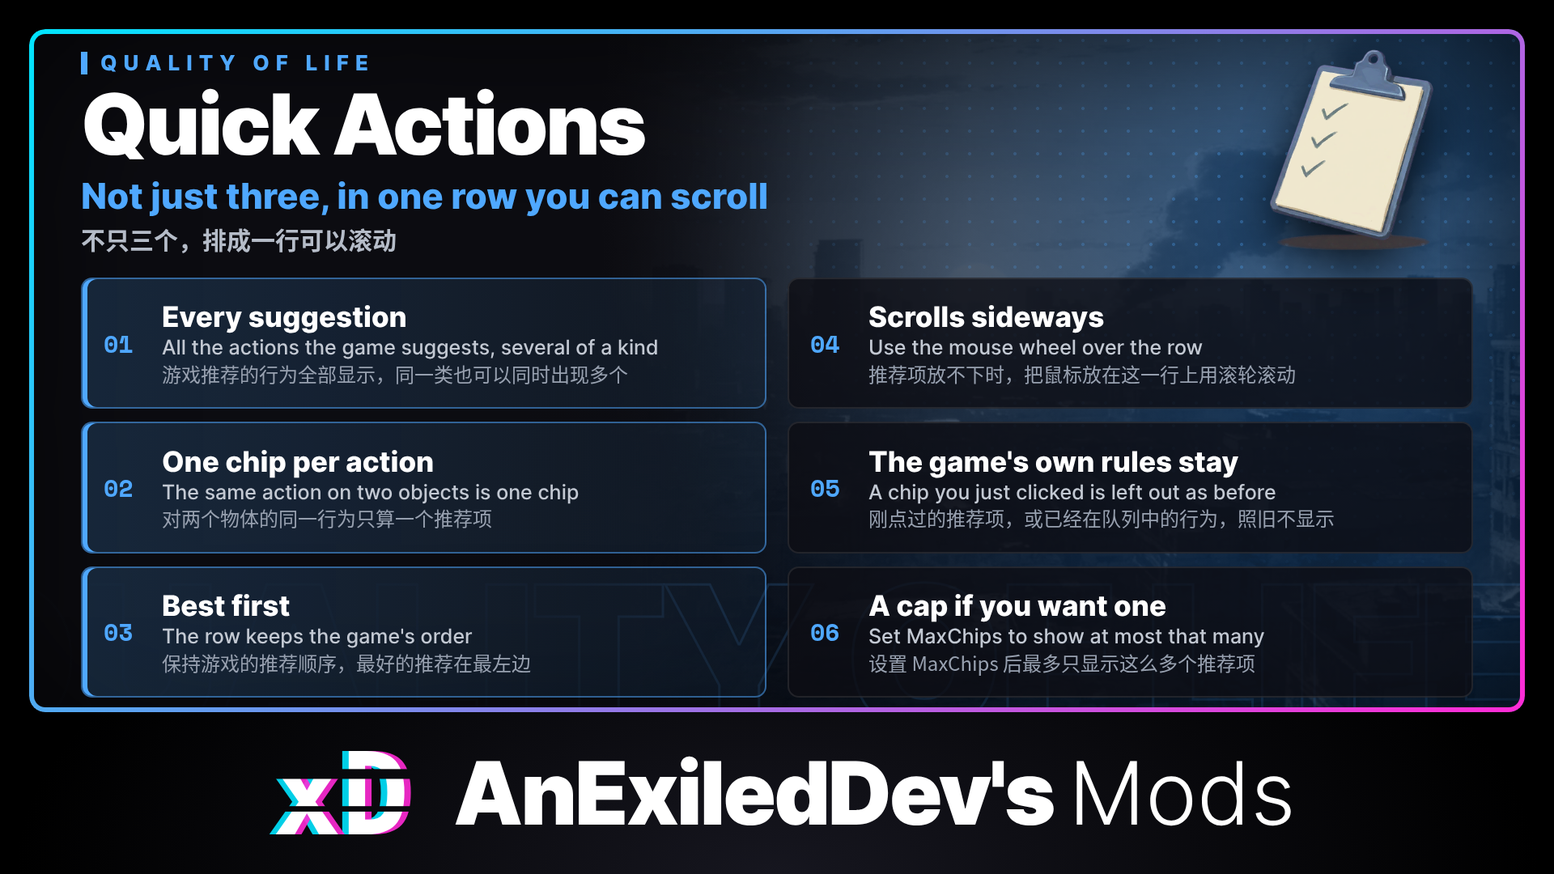
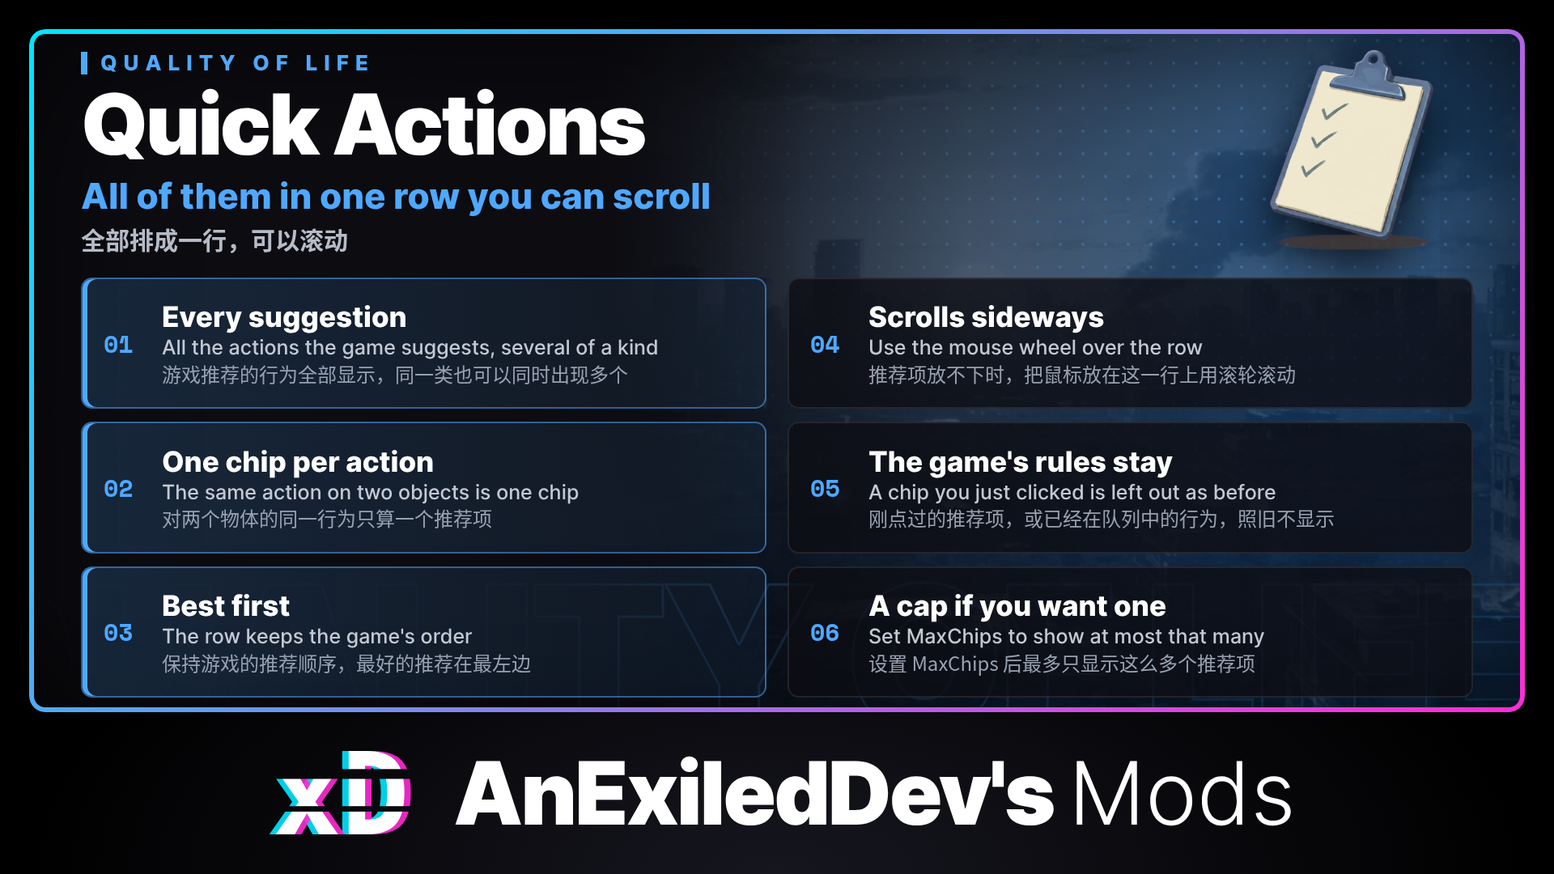
Quick Actions 0.3.4: clearer wording
Plainer setting descriptions and Mods screen description, in English and Chinese.
README and Nexus page: simpler feature headings, the known issues about clicks near the row's edge are split and reworded, and the starving or exhausted rule is on the Nexus page too.
Changelog entries reworded without changing what they say.
Updated features image.

Changed region(s): [[0.0312, 0.2139, 0.5, 0.3056], [0.6562, 0.5194, 0.8125, 0.55]]

diff --git a/src/QuickActions/Plugin.cs b/src/QuickActions/Plugin.cs
@@ -14,7 +14,7 @@ namespace QuickActions;
 public sealed class Plugin : BasePlugin
 {
     private const string Guid = "com.dev.survivallog.quickactions";
-    private const string Version = "0.3.3";
+    private const string Version = "0.3.4";
     private const string ToolkitGuid = "com.dev.survivallog.exiledtoolkit";
     private const long MaxLogBytes = 1024 * 1024;
 
@@ -22,13 +22,13 @@ public sealed class Plugin : BasePlugin
     {
         // Turning it off would have to take the page script back out of the web UI, so it waits for the next start.
         var isEnabled = Config.Bind("General", "Enabled", true, new ConfigDescription(
-            "Show every action the game suggests in one row, one chip per action. Scroll the row sideways with the mouse wheel. Without the mod, the game shows at most three. Set to false to keep the game's row. Takes effect at the next game start.\n" +
-            "在一行里显示游戏推荐的所有行为，每个行为一个推荐项，鼠标放在这一行上用滚轮左右滚动。游戏自己最多只显示三个。设为 false 则保留游戏自带的那一行。下次启动游戏时生效。", null, "ModManager.Restart")).Value;
+            "Show every action the game suggests in one row, one chip per action. Scroll the row sideways with the mouse wheel. Without the mod, the game shows at most three. Set to false to go back to the game's normal row. Takes effect at the next game start.\n" +
+            "在一行里显示游戏推荐的所有行为，每个行为一个推荐项，鼠标放在这一行上用滚轮左右滚动。不装本模组时，游戏最多只显示三个。设为 false 则恢复游戏原来的那一行。下次启动游戏时生效。", null, "ModManager.Restart")).Value;
         var maxChips = Config.Bind("General", "MaxChips", 0,
-            new ConfigDescription("The most chips the row shows, in the game's order, best first. 0 shows them all. Numbers below 0 count as 0.\n" +
+            new ConfigDescription("The most chips the row shows, in the game's order, best first. 0 shows them all. A number below 0 counts as 0.\n" +
             "这一行最多显示几个推荐项，按游戏的推荐顺序排列，最好的在最前。0 表示全部显示，小于 0 的数按 0 处理。", null, "ModManager.ShowWhen=Enabled"));
         var wholeHouse = Config.Bind("General", "WholeHouse", false,
-            new ConfigDescription("Set to true to suggest actions from every floor of the house, not just the floor your character is on. Clicking one walks your character there. Sleep still goes to the best bed in the house. When it is false, the row suggests only what is on your character's floor.\n" +
+            new ConfigDescription("Set to true to suggest actions from every floor of the house, instead of only the floor your character is on. Clicking one walks your character there. Sleep still goes to the best bed in the house. When it is false, the row suggests only what is on your character's floor.\n" +
             "设为 true 则推荐房子里所有楼层的行为，而不只是角色所在的楼层。点击后角色会走过去。睡觉仍然去房子里最好的床。设为 false 时只推荐角色所在楼层的行为。", null, "ModManager.ShowWhen=Enabled"));
         var log = new ModLog(Log, "quick-actions.log") { MaxFileBytes = MaxLogBytes };
 

diff --git a/README.md b/README.md
@@ -1,20 +1,20 @@
 # Quick Actions
 
-See every action the game suggests, not just three, in one row you can scroll sideways.
+Shows every action the game suggests in one row you can scroll sideways, instead of only three.
 
-Survival Log suggests actions in a small row of chips above your action queue: eat this, sleep there, listen to music. It only ever shows three of them, and only one of each kind, so a second morale action or a second food never makes it onto the row. Quick Actions shows every suggested action, best first, in one row that scrolls sideways when it gets long. It only changes which chips the row shows. It never changes what a chip does, your character, the world or a save.
+Survival Log suggests actions in a small row of chips above your action queue: eat this, sleep there, listen to music. It only ever shows three of them, and only one of each kind, so a second morale action or a second food never makes it onto the row. Quick Actions shows every suggested action, best first, in one row that scrolls sideways when it gets long. It only changes which chips show up. Clicking a chip does the same thing it always did, and nothing is added to your save.
 
 ## Features
 
-- **Every suggestion**: all the actions the game suggests show up, not only the best three, and several of the same kind can show at once (two foods, two ways to cheer up).
-- **One chip per action**: the same action on two objects is one chip. Two music players give one "listen to music" chip, and the same food in the fridge and in your bag gives one chip. The chip uses the better-scored object, the one the game itself would have picked.
-- **Every floor of the house**: set `WholeHouse` to `true` and suggestions come from the basement, the ground floor and upstairs, not only the floor your character is on. Clicking one walks your character there, the way the game already does for a bed on another floor. Sleep still goes to the best bed in the house, as the game picks it. `WholeHouse` is off when you first install the mod.
-- **Best first**: the row keeps the game's order, best suggestion on the left.
-- **Scrolls sideways**: when there are more chips than fit, the row scrolls. Move the mouse over it and use the scroll wheel.
-- **Status bars don't block the row**: the empty space beside the status bars in the bottom right no longer takes your clicks, so chips at the right end of the row can be clicked. The bars and their buffs still respond as before.
-- **The game's rules stay**: a chip you just clicked, or an action already waiting in your queue, is left out as before, and the game still hides everything but eating and sleeping when you are starving or exhausted.
-- **A cap if you want one**: set `MaxChips` to show at most that many chips.
-- **A log file**: what the mod set up is written to `BepInEx\quick-actions.log`.
+- **Every suggestion**: every action the game suggests shows up, and several of the same kind can show at once (two foods, two ways to cheer up).
+- **One chip per action**: the same action on two objects is one chip. Two music players give one "listen to music" chip, and the same food in the fridge and in your bag gives one chip. The chip uses whichever object the game rates higher.
+- **Every floor of the house**: set `WholeHouse` to `true` and suggestions come from the basement, the ground floor and upstairs, instead of only the floor your character is on. Clicking one walks your character there, the way the game already does for a bed on another floor. Sleep still goes to the best bed in the house. `WholeHouse` is off when you first install the mod.
+- **Best first**: the row keeps the game's order, with the best suggestion on the left.
+- **Scrolls sideways**: when there are more chips than fit, move the mouse over the row and use the scroll wheel.
+- **Status bars don't block the row**: the empty space beside the status bars in the bottom right no longer takes your clicks, so you can click the chips at the right end of the row. The bars and their buffs still respond as before.
+- **Hidden chips stay hidden**: a chip you just clicked, or an action already waiting in your queue, is left out like before. When you are starving or exhausted, the game still hides everything but eating and sleeping.
+- **Limit the number of chips**: set `MaxChips` to show at most that many chips.
+- **A log file**: the mod writes what it set up to `BepInEx\quick-actions.log`.
 
 There are no new keys or buttons.
 
@@ -23,15 +23,16 @@ Quick Actions adds no data to your save and does not edit game files. You can re
 ## Known issues and limits
 
 - "The same action" means the same name and the same icon on the chip. Two different things that happen to share both become one chip.
-- A chip scrolled half out of sight can still take a click on the world just past the row's edge, up to about one chip wide. A chip scrolled fully out of sight takes no clicks. The row also takes clicks in the small gaps between chips and a few pixels above and below them, so the scroll wheel works there.
+- When a chip is scrolled halfway out of sight, its hidden half still blocks clicks on the world just past the edge of the row, up to about one chip wide. A chip scrolled all the way out of sight blocks nothing.
+- Clicks in the small gaps between chips, and a few pixels above and below them, go to the row instead of the world, so the scroll wheel works there too.
 - The scroll wheel over the row scrolls the row. Over the rest of the screen it zooms the camera as usual.
 - The row stops growing at about a third of the screen width (less on small screens) so it stays clear of the panels in the middle of the bottom edge.
 
-Works in English and Chinese: the chips show the game's action names in your game language, the mod adds no words of its own on screen, and every config setting is explained in English and Simplified Chinese.
+Works in English and Chinese. The chips show the game's action names in your game language, the mod adds no words of its own on screen, and every config setting is explained in English and Simplified Chinese.
 
 ## Requirements
 
-- Survival Log 1.1.20719. Built for this version; a game update can break it until the mod is updated.
+- Survival Log 1.1.20719. It was built for this version, and a game update can break it until the mod is updated.
 - The [BepInEx Pack for Survival Log](https://www.nexusmods.com/survivallog/mods/12), the BepInEx 6 (IL2CPP) build for the game, version `6.0.0-be.788`.
 - [Exiled's Toolkit](https://github.com/AnExiledDev/SurvivalLog-ExiledToolkit) 0.20.0 or newer. Quick Actions does not load without it. It applies settings changed on the Mod Manager's Mods screen without restarting the game.
 - Optional: [Mod Manager](https://www.nexusmods.com/survivallog/mods/73). With it, you can change every setting in game on its Mods screen and see what each one does, without opening the config file.
@@ -56,17 +57,17 @@ Settings live in `BepInEx\config\com.dev.survivallog.quickactions.cfg`, created 
 
 Built against BepInEx `6.0.0-be.788`.
 
-Check `BepInEx\LogOutput.log` for a line starting `===== Quick Actions`, followed by the mod's version and `started`. It says whether the mod is on. The next lines should say the suggestion hook went in and give the chip limit (`max chips`, again each time you change it), and a moment later, that the page script was sent to the web UI.
+Check `BepInEx\LogOutput.log` for a line starting `===== Quick Actions`, followed by the mod's version and `started`, then `on` or `off`. Next should come a line starting `hooked` and a `max chips` line, which shows up again each time you change that setting. A moment later, a line says the page script was sent to the web UI.
 
 The same lines are in `BepInEx\quick-actions.log`, which survives restarts.
 
-If the row still shows only three chips, look in the log for a line starting `could not` or `failed`. When the mod cannot do its part, it leaves the game's row in place.
+If the row still shows only three chips, look in the log for a line starting `could not` or `failed`. When something goes wrong, the mod leaves the game's normal row of three in place.
 
 ## Feedback and bug reports
 
 Found a bug, have an idea, or something feels off? Come say so on the Core Directive Discord: https://discord.gg/trTsyxUFqg . You can also post in the Posts tab of the mod's Nexus Mods page. When reporting a bug, attach `BepInEx\LogOutput.log` and `BepInEx\quick-actions.log`.
 
-To reach me directly, message `exiled.dev` on Discord; you can find me in the [official Survival Log Discord](https://discord.gg/MZGg4gQAUe). I'm also on X as [@AnExiledDev](https://x.com/AnExiledDev).
+To reach me directly, message `exiled.dev` on Discord. You can find me in the [official Survival Log Discord](https://discord.gg/MZGg4gQAUe). I'm also on X as [@AnExiledDev](https://x.com/AnExiledDev).
 
 A Survival Log wiki with detailed documentation for all of my mods is coming soon.
 

diff --git a/NEXUS.md b/NEXUS.md
@@ -1,20 +1,20 @@
 Name: Quick Actions
-Summary: See every action the game suggests, not just three, in one row of chips you scroll sideways with the mouse wheel. Best suggestion first, and one chip per action even when several objects offer it. Turn on WholeHouse for suggestions from every floor of the house. Set MaxChips if you want a cap. No new keys, and nothing added to your save.
+Summary: Shows every action the game suggests in one row of chips above your action queue, instead of only three. Scroll the row sideways with the mouse wheel. Each action shows once, with the best one first. Turn on WholeHouse for suggestions from every floor of the house, or set MaxChips to limit the row. No new keys, and nothing is added to your save.
 
 Description (BBCode):
 [center][img]https://sldb.core-directive.com/media/save/1-save-safe.png[/img][/center]
 
-Survival Log suggests actions in a small row of chips above your action queue, but it only ever shows three of them, and only one of each kind. Quick Actions shows every suggested action, best first, in one row that scrolls sideways when it gets long. It only changes which chips the row shows; it never changes what a chip does, your character, the world or a save.
+Survival Log suggests actions in a small row of chips above your action queue, but it only ever shows three of them, and only one of each kind. Quick Actions shows every suggested action, best first, in one row that scrolls sideways when it gets long. It only changes which chips show up. Clicking a chip does the same thing it always did, and nothing is added to your save.
 
 [size=5]Main features[/size]
 [list]
-[*][b]Every suggestion[/b]: all the actions the game suggests show up, and several of the same kind can show at once (two foods, two ways to cheer up).[/*]
-[*][b]One chip per action[/b]: the same action on two objects is one chip. Two music players give one chip, and the same food in the fridge and in your bag gives one chip.[/*]
-[*][b]Every floor of the house[/b]: turn on WholeHouse and suggestions come from the basement, the ground floor and upstairs, not only the floor your character is on. Clicking one walks your character there. Sleep still goes to the best bed in the house. It is off when you first install the mod.[/*]
-[*][b]Best first[/b]: the row keeps the game's order, best suggestion on the left.[/*]
+[*][b]Every suggestion[/b]: every action the game suggests shows up, and several of the same kind can show at once (two foods, two ways to cheer up).[/*]
+[*][b]One chip per action[/b]: the same action on two objects is one chip. Two music players give one chip, and the same food in the fridge and in your bag gives one chip. The chip uses whichever object the game rates higher.[/*]
+[*][b]Every floor of the house[/b]: turn on WholeHouse and suggestions come from the basement, the ground floor and upstairs, instead of only the floor your character is on. Clicking one walks your character there. Sleep still goes to the best bed in the house. WholeHouse is off when you first install the mod.[/*]
+[*][b]Best first[/b]: the row keeps the game's order, with the best suggestion on the left.[/*]
 [*][b]Scrolls sideways[/b]: when there are more chips than fit, move the mouse over the row and use the scroll wheel.[/*]
-[*][b]The game's rules stay[/b]: a chip you just clicked, or an action already in your queue, is left out as before.[/*]
-[*][b]A cap if you want one[/b]: set MaxChips to show at most that many chips.[/*]
+[*][b]Hidden chips stay hidden[/b]: a chip you just clicked, or an action already waiting in your queue, is left out like before. When you are starving or exhausted, the game still hides everything but eating and sleeping.[/*]
+[*][b]Limit the number of chips[/b]: set MaxChips to show at most that many chips.[/*]
 [/list]
 No new keys or buttons. Quick Actions adds no data to your save and does not edit game files. You can remove it at any time.
 
@@ -51,11 +51,11 @@ Works in English and Chinese.
 Delete [font=Courier New]QuickActions.dll[/font] from the [font=Courier New]BepInEx\plugins[/font] folder.
 
 [size=5]Configuration[/size]
-To turn the mod off or cap the number of chips, edit [font=Courier New]BepInEx\config\com.dev.survivallog.quickactions.cfg[/font] while the game is closed, or do it in game on the Mod Manager's Mods screen, where changes take effect at once (see [url=https://github.com/AnExiledDev/SurvivalLog-QuickActions/blob/main/CONFIG.md]CONFIG.md[/url] for every setting). Enabled takes effect at the next game start.
+To turn the mod off or limit the number of chips, edit [font=Courier New]BepInEx\config\com.dev.survivallog.quickactions.cfg[/font] while the game is closed, or do it in game on the Mod Manager's Mods screen, where changes take effect at once (see [url=https://github.com/AnExiledDev/SurvivalLog-QuickActions/blob/main/CONFIG.md]CONFIG.md[/url] for every setting). Enabled takes effect at the next game start.
 
 [size=5]Feedback[/size]
 Found a bug or have an idea? Come say hi on the [url=https://discord.gg/trTsyxUFqg]Core Directive Discord[/url], or post in this page's Posts tab. For bugs, please include [font=Courier New]BepInEx\LogOutput.log[/font] and [font=Courier New]BepInEx\quick-actions.log[/font].
-To reach me directly, message [b]exiled.dev[/b] on Discord; you can find me in the [url=https://discord.gg/MZGg4gQAUe]official Survival Log Discord[/url]. I'm also on X as [url=https://x.com/AnExiledDev]@AnExiledDev[/url].
+To reach me directly, message [b]exiled.dev[/b] on Discord. You can find me in the [url=https://discord.gg/MZGg4gQAUe]official Survival Log Discord[/url]. I'm also on X as [url=https://x.com/AnExiledDev]@AnExiledDev[/url].
 
 [size=5]Source and license[/size]
 Open source under MIT: [url=https://github.com/AnExiledDev/SurvivalLog-QuickActions]github.com/AnExiledDev/SurvivalLog-QuickActions[/url]
@@ -63,17 +63,17 @@ Open source under MIT: [url=https://github.com/AnExiledDev/SurvivalLog-QuickActi
 [line]
 [size=5]简体中文[/size]
 
-Survival Log 会在行动队列上方用一小行推荐项提示你可以做的行为，但最多只显示三个，而且同一类只显示一个。Quick Actions 会把游戏推荐的所有行为按从好到差的顺序放在同一行里，太长时可以左右滚动。它只改变这一行显示哪些推荐项，不会改变推荐项的效果、你的角色、世界或存档。
+Survival Log 会在行动队列上方用一小行推荐项提示你可以做的行为，但最多只显示三个，而且同一类只显示一个。Quick Actions 会把游戏推荐的所有行为按从好到差的顺序放在同一行里，太长时可以左右滚动。它只改变这一行显示哪些推荐项。点击推荐项的效果和原来一样，也不会往存档里添加任何内容。
 
 [size=5]主要功能[/size]
 [list]
 [*][b]所有推荐[/b]：游戏推荐的行为全部显示，同一类也可以同时出现多个（两种食物、两种提升心情的方式）。[/*]
-[*][b]一个行为一个推荐项[/b]：对两个物体的同一行为只算一个推荐项。两台音乐播放器只显示一个，冰箱和背包里的同一种食物也只显示一个。[/*]
-[*][b]整栋房子[/b]：打开 WholeHouse 后，推荐来自地下室、一楼和楼上，而不只是角色所在的楼层。点击后角色会走过去。睡觉仍然去房子里最好的床。刚安装时这项是关闭的。[/*]
+[*][b]一个行为一个推荐项[/b]：对两个物体的同一行为只算一个推荐项。两台音乐播放器只显示一个，冰箱和背包里的同一种食物也只显示一个。推荐项会用游戏评分更高的那个物体。[/*]
+[*][b]整栋房子[/b]：打开 WholeHouse 后，推荐来自地下室、一楼和楼上，而不只是角色所在的楼层。点击后角色会走过去。睡觉仍然去房子里最好的床。刚安装时 WholeHouse 是关闭的。[/*]
 [*][b]最好的在最前[/b]：保持游戏的推荐顺序，最好的推荐在最左边。[/*]
 [*][b]左右滚动[/b]：推荐项放不下时，把鼠标放在这一行上用滚轮滚动。[/*]
-[*][b]保留游戏原有规则[/b]：刚点过的推荐项，或已经在队列中的行为，照旧不显示。[/*]
-[*][b]可设上限[/b]：设置 MaxChips 后最多只显示这么多个推荐项。[/*]
+[*][b]隐藏的照样隐藏[/b]：刚点过的推荐项，或已经在队列中等待的行为，照旧不显示。角色极度饥饿或极度疲劳时，游戏仍然只显示吃东西和睡觉。[/*]
+[*][b]限制推荐项数量[/b]：设置 MaxChips 后最多只显示这么多个推荐项。[/*]
 [/list]
 没有新增按键或按钮。Quick Actions 不会往存档里添加任何内容，也不会修改游戏文件，随时可以移除。
 

diff --git a/CHANGELOG.md b/CHANGELOG.md
@@ -1,5 +1,10 @@
 # Changelog
 
+## 0.3.4
+
+- Clearer wording in the settings and in the mod's description on the Mods screen.
+- Made for Survival Log 1.1.20719.
+
 ## 0.3.3
 
 - Suggestions from every floor of the house (the `WholeHouse` setting) are now off for a new install. Turn it on in the config or on the Mod Manager's Mods screen. A setting you already saved is kept.
@@ -12,18 +17,18 @@
 
 ## 0.3.1
 
-- Now uses Exiled's Toolkit for its shared parts, so it needs Exiled's Toolkit 0.19.0 or newer.
+- Some of the mod's code moved into Exiled's Toolkit, so it now needs Exiled's Toolkit 0.19.0 or newer.
 - Made for Survival Log 1.1.20719.
 
 ## 0.3.0
 
-- The row suggests actions from every floor of the house, not just the floor your character is on. Clicking one walks your character there. Sleep still goes to the best bed in the house. The new WholeHouse setting turns this off.
+- The row suggests actions from every floor of the house, instead of only the floor your character is on. Clicking one walks your character there. Sleep still goes to the best bed in the house. The new WholeHouse setting turns this off.
 - Made for Survival Log 1.1.20719.
 
 ## 0.2.2
 
-- The game's screens run smoother: the mod no longer checks the row of suggestions several times a second, only when the chips in it change.
-- Less work in the background: the mod no longer sends its part of the screen to the game over and over, only after the game's screen reloads.
+- The game's screens run smoother. The mod now checks the row of suggestions only when its chips change, instead of several times a second.
+- The mod now sends its part of the screen to the game only after the game's screen reloads, instead of over and over.
 - Building the row of suggestions takes less work each time the game refreshes it.
 - Made for Survival Log 1.1.19611.
 
@@ -43,5 +48,5 @@
 ## 0.1.2
 
 - First public release.
-- Every action the game suggests is shown, not just three, in one row you can scroll sideways with the mouse wheel.
+- Every action the game suggests is shown instead of only three, in one row you can scroll sideways with the mouse wheel.
 - Each action shows once, with the best suggestion first.

diff --git a/CONFIG.md b/CONFIG.md
@@ -6,10 +6,10 @@ Settings live in `BepInEx\config\com.dev.survivallog.quickactions.cfg`, created 
 
 | Setting | Default | What it does |
 | --- | --- | --- |
-| `Enabled` | `true` | Show every action the game suggests in one row, one chip per action. Scroll the row sideways with the mouse wheel. Without the mod, the game shows at most three, one of each kind. `false` keeps the game's row. |
-| `WholeHouse` | `false` | `true` suggests actions from every floor of the house, not just the floor your character is on. Clicking one walks your character there. Sleep still goes to the best bed in the house. `false` suggests only what is on your character's floor. |
+| `Enabled` | `true` | Show every action the game suggests in one row, one chip per action. Scroll the row sideways with the mouse wheel. Without the mod, the game shows at most three, one of each kind. `false` goes back to the game's normal row. |
+| `WholeHouse` | `false` | `true` suggests actions from every floor of the house, instead of only the floor your character is on. Clicking one walks your character there. Sleep still goes to the best bed in the house. `false` suggests only what is on your character's floor. |
 | `MaxChips` | `0` | The most chips the row shows, in the game's order, best first. `0` shows them all. A number below 0 counts as 0. |
 
-With `MaxChips` at `3` the row is close to the game's, except that two chips of the same kind can show at once.
+With `MaxChips` at `3` the row looks close to the game's normal row, except that two chips of the same kind can show at once.
 
 There are no keys or buttons to set.
